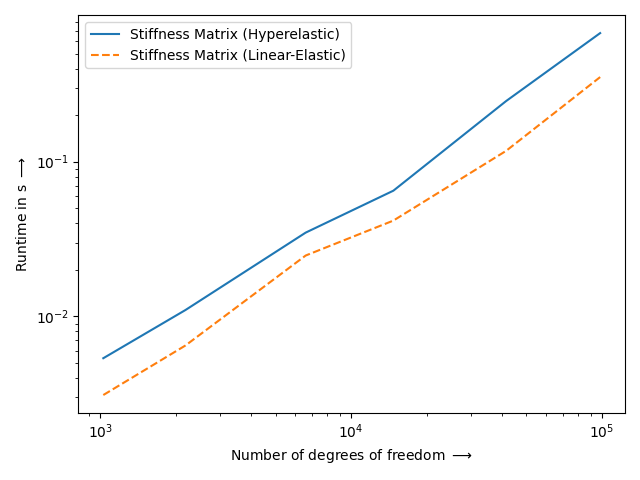
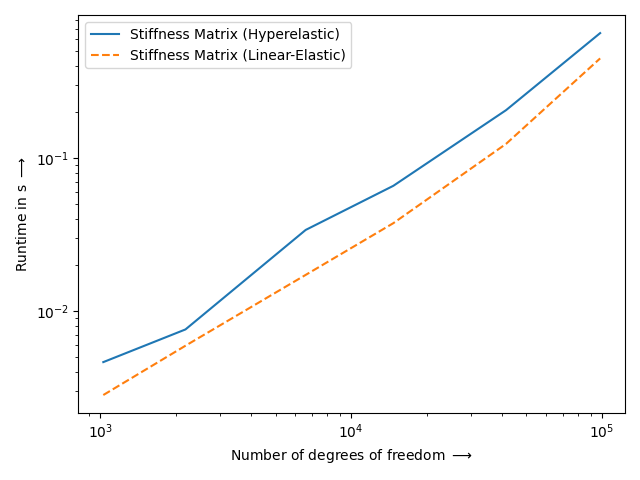
update benchmark results

diff --git a/docs/index.rst b/docs/index.rst
@@ -131,9 +131,9 @@ This is a simple benchmark to compare assembly times for linear elasticity and h
    +----------------+-------------------+
    | Analysis       |        DOF/s      |
    +================+===================+
-   | Linear-Elastic |  338263 +/-94934  |
+   | Linear-Elastic |  343872 +/-58833  |
    +----------------+-------------------+
-   | Hyperelastic   |  135843 +/-39126  |
+   | Hyperelastic   |  213350 +/-41843  |
    +----------------+-------------------+
 
    Tested on: Windows 10, Python 3.11, Intel® Core™ i7-11850H @ 2.50GHz, 32GB RAM.
